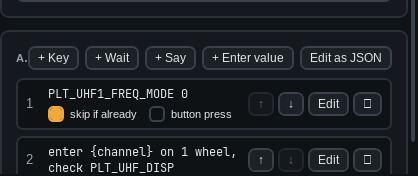
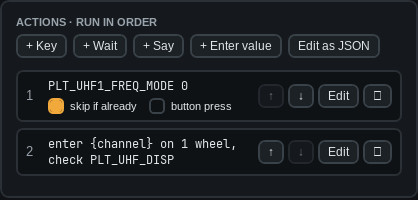
Editor: put the action buttons on their own row under the heading
'ACTIONS · RUN IN ORDER' was squeezed to 'A...' next to the five buttons.
The buttons now sit in a wrapping row below it. Screenshots retaken; the
script hides the log for the editor shots so both UHF actions fit.

Claude-Session: https://claude.ai/code/session_01GtChxGJrP1CcdvQEJ8Uucz

Changed region(s): [[0.0, 0.0, 1.0, 0.9943]]

diff --git a/src/DcsVoiceCom.App/MainWindow.xaml b/src/DcsVoiceCom.App/MainWindow.xaml
@@ -280,20 +280,19 @@
 
             <Border Style="{StaticResource Card}">
               <StackPanel>
-                <DockPanel Margin="0,0,0,8">
-                  <StackPanel DockPanel.Dock="Right" Orientation="Horizontal">
-                    <Button Content="+ Key" Style="{StaticResource Small}" Command="{Binding AddKeyCommand}" Margin="0,0,6,0"
-                            ToolTip="Press a key chord, e.g. RCtrl+RShift+G" />
-                    <Button Content="+ Wait" Style="{StaticResource Small}" Command="{Binding AddWaitCommand}" Margin="0,0,6,0" />
-                    <Button Content="+ Say" Style="{StaticResource Small}" Command="{Binding AddSayCommand}" Margin="0,0,6,0"
-                            ToolTip="Speak a voice reply, e.g. Radio set to {freq}" />
-                    <Button Content="+ Enter value" Style="{StaticResource Small}" Command="{Binding AddEnterValueCommand}" Margin="0,0,6,0"
-                            ToolTip="Put a spoken number on radio wheels, or spelled text on a keypad (Edit to set it up)" />
-                    <Button Content="Edit as JSON" Style="{StaticResource Small}" Command="{Binding ToggleJsonCommand}"
-                            ToolTip="For if/else, wait_for, bios_until and the other step types" />
-                  </StackPanel>
-                  <TextBlock Text="ACTIONS · RUN IN ORDER" Style="{StaticResource Heading}" VerticalAlignment="Center" Margin="0" TextTrimming="CharacterEllipsis" />
-                </DockPanel>
+                <TextBlock Text="ACTIONS · RUN IN ORDER" Style="{StaticResource Heading}" Margin="0,0,0,6" />
+                <!-- Own row under the heading, wrapping on a narrow window, so the heading stays readable. -->
+                <WrapPanel Margin="0,0,0,8">
+                  <Button Content="+ Key" Style="{StaticResource Small}" Command="{Binding AddKeyCommand}" Margin="0,0,6,4"
+                          ToolTip="Press a key chord, e.g. RCtrl+RShift+G" />
+                  <Button Content="+ Wait" Style="{StaticResource Small}" Command="{Binding AddWaitCommand}" Margin="0,0,6,4" />
+                  <Button Content="+ Say" Style="{StaticResource Small}" Command="{Binding AddSayCommand}" Margin="0,0,6,4"
+                          ToolTip="Speak a voice reply, e.g. Radio set to {freq}" />
+                  <Button Content="+ Enter value" Style="{StaticResource Small}" Command="{Binding AddEnterValueCommand}" Margin="0,0,6,4"
+                          ToolTip="Put a spoken number on radio wheels, or spelled text on a keypad (Edit to set it up)" />
+                  <Button Content="Edit as JSON" Style="{StaticResource Small}" Command="{Binding ToggleJsonCommand}" Margin="0,0,0,4"
+                          ToolTip="For if/else, wait_for, bios_until and the other step types" />
+                </WrapPanel>
                 <TextBlock Text="No actions yet — pick a control and an argument on the right." Style="{StaticResource MutedText}"
                            Visibility="{Binding HasNoSteps, Converter={StaticResource Visible}}" Margin="0,4" />
                 <ItemsControl ItemsSource="{Binding Steps}">
